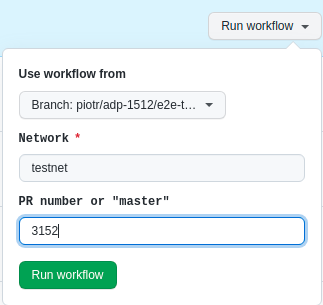
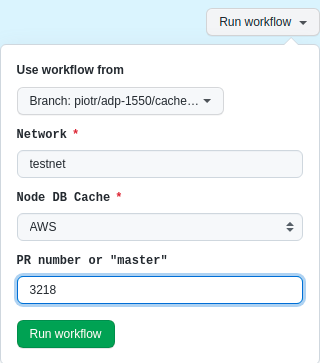
update README

Changed region(s): [[0.0, 0.0, 1.0, 1.0], [0.6875, 0.3541, 0.7188, 0.3836]]

diff --git a/test/e2e/README.md b/test/e2e/README.md
@@ -1,5 +1,5 @@
 # E2E testing
-|  |  |
+| Flavor | Results |
 |--|--|
 |**Full mode** |[![E2E Docker](https://github.com/input-output-hk/cardano-wallet/actions/workflows/e2e-docker.yml/badge.svg)](https://github.com/input-output-hk/cardano-wallet/actions/workflows/e2e-docker.yml) [![E2E Linux](https://github.com/input-output-hk/cardano-wallet/actions/workflows/e2e-linux.yml/badge.svg)](https://github.com/input-output-hk/cardano-wallet/actions/workflows/e2e-linux.yml) [![E2E MacOS](https://github.com/input-output-hk/cardano-wallet/actions/workflows/e2e-macos.yml/badge.svg)](https://github.com/input-output-hk/cardano-wallet/actions/workflows/e2e-macos.yml) [![E2E Windows](https://github.com/input-output-hk/cardano-wallet/actions/workflows/e2e-windows.yml/badge.svg)](https://github.com/input-output-hk/cardano-wallet/actions/workflows/e2e-windows.yml)  |
 |**Light mode** | [![E2E Linux --light](https://github.com/input-output-hk/cardano-wallet/actions/workflows/e2e-linux-lite.yml/badge.svg)](https://github.com/input-output-hk/cardano-wallet/actions/workflows/e2e-linux-lite.yml) [![E2E MacOS --light](https://github.com/input-output-hk/cardano-wallet/actions/workflows/e2e-macos-lite.yml/badge.svg)](https://github.com/input-output-hk/cardano-wallet/actions/workflows/e2e-macos-lite.yml) [![E2E Windows --light](https://github.com/input-output-hk/cardano-wallet/actions/workflows/e2e-windows-lite.yml/badge.svg)](https://github.com/input-output-hk/cardano-wallet/actions/workflows/e2e-windows-lite.yml) |
@@ -158,10 +158,29 @@ end
 ```
 
 ### Running tests from GH actions workflow
+
+There are several e2e workflows in GH actions for testing against different platforms (Docker, Linux, MacOS, Windows) and against different wallet modes (full, light).
+
+#### Node DB cache
+
+For speeding up execution in wallet's full mode we use cardano-node DB from cache. Thanks to this we don't have to wait for hours on each execution until cardano-node is synced with the chain. There are two ways of acquiring node DB:
+ - GH actions cache - node db is cached on every execution and reused on subsequent run
+ - AWS cache - node db is downloaded from https://updates-cardano-testnet.s3.amazonaws.com/cardano-node-state/index.html (the snapshot there is updated on every epoch)
+
+While GH actions cache is realized by [actions/cache](https://github.com/actions/cache) for AWS one we have a dedicated rake step:
+
+```ruby
+$ rake get_latest_node_db[testnet]
+```
+
+#### Test schedule
+
 All tests are scheduled to be executed on nightly basis against latest `master` version
 of cardano-wallet.
 
-It is also possible to trigger each workflow manually from [GH actions](https://github.com/input-output-hk/cardano-wallet/actions). In particular workflows can be executed against the binaries of particular PR.
+It is also possible to trigger each workflow manually from [GH actions](https://github.com/input-output-hk/cardano-wallet/actions). In particular:
+ - workflows can be executed against the binaries of particular PR,
+ - for full wallet mode one can choose whether to use Node DB cached from GH cache or AWS
 
 <img src="../../.github/images/e2e-workflow-form.png"/>
 
